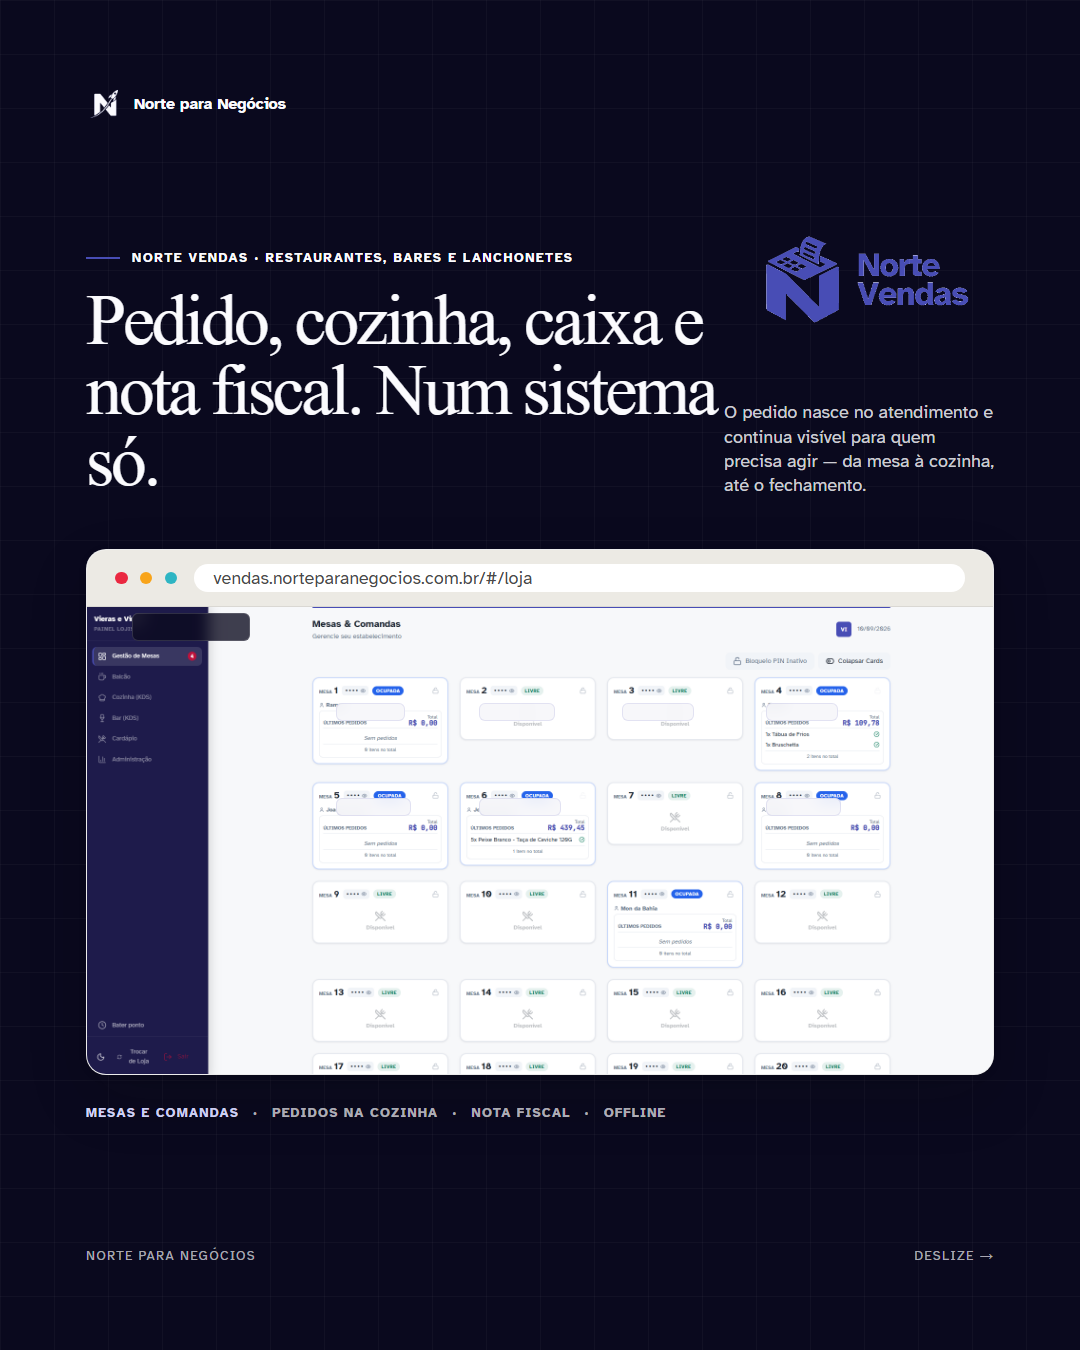
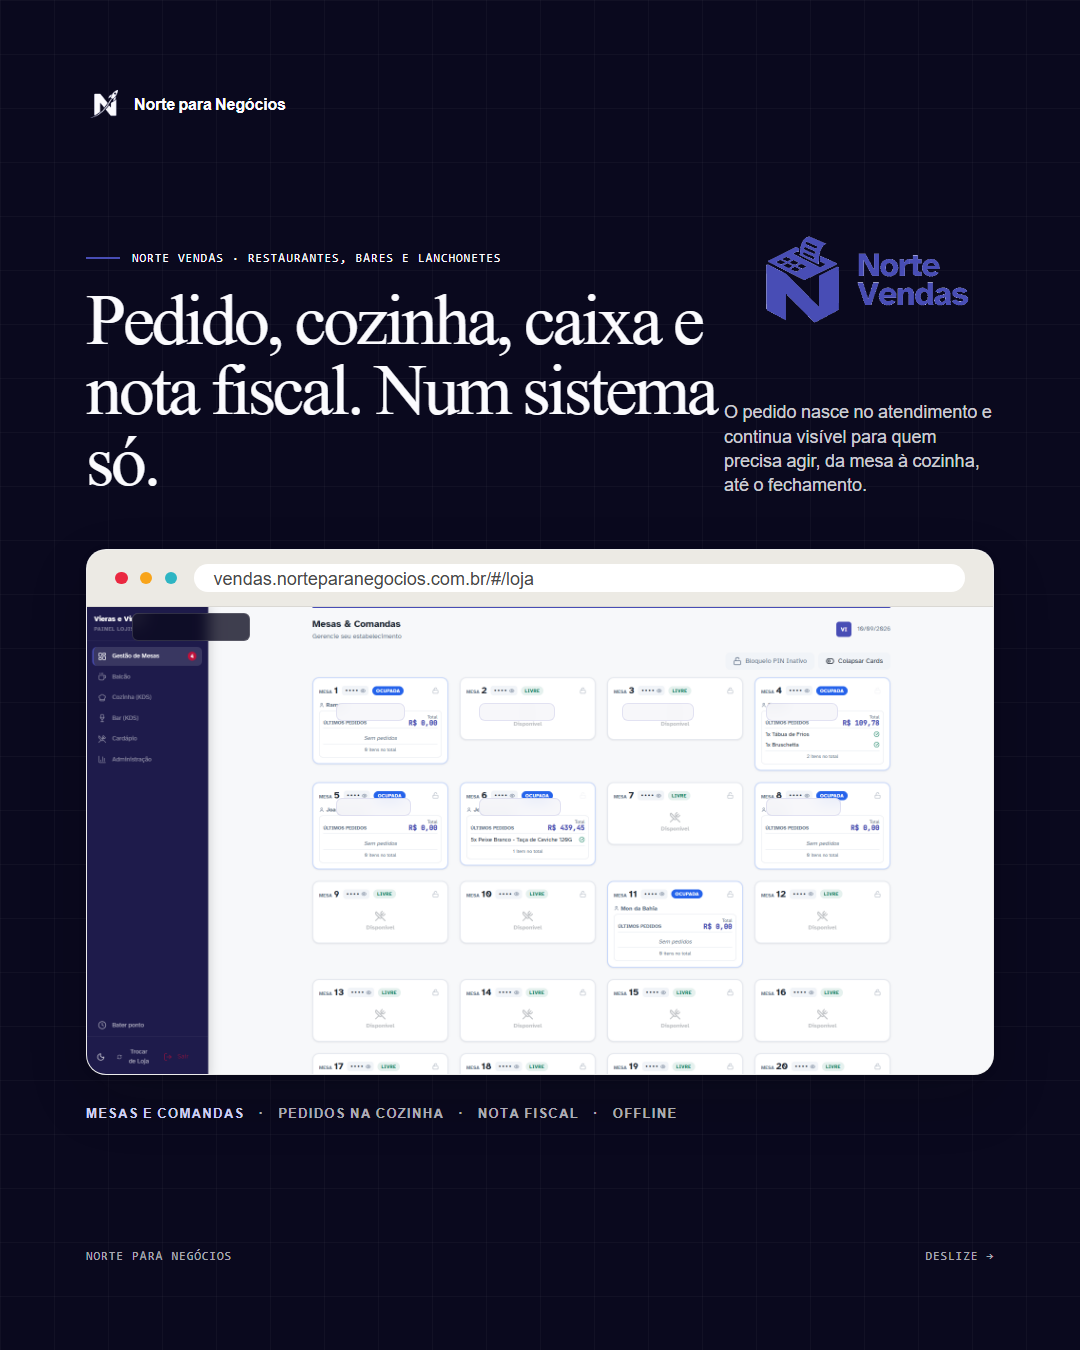
Alinha carrossel ao estilo do site Norte

diff --git a/src/lib/fonts.ts b/src/lib/fonts.ts
@@ -1,8 +1,8 @@
 import {continueRender, delayRender, staticFile} from 'remotion';
 
 /**
- * Par tipográfico definitivo da marca (design-dna.json, fechado 2026-09-05):
- * Source Serif 4 (headline/citação/overlay) + Atkinson Hyperlegible (corpo/dado/UI).
+ * Par tipográfico alinhado ao site oficial: Newsreader (headline/citação/overlay)
+ * + Geist Variable (corpo/dado/UI).
  * Fontes DEVEM estar embutidas no projeto (não CDN) — senão o render fica
  * não-determinístico (constraint documentada em constraints-plataforma.md).
  *
@@ -13,11 +13,11 @@ import {continueRender, delayRender, staticFile} from 'remotion';
 let sansLoaded = false;
 let serifLoaded = false;
 
-const SANS_FONT_FILES: Array<[number, 'normal' | 'italic', string]> = [
-  [400, 'normal', 'AtkinsonHyperlegible-400.woff2'],
-  [400, 'italic', 'AtkinsonHyperlegible-400-italic.woff2'],
-  [700, 'normal', 'AtkinsonHyperlegible-700.woff2'],
-  [700, 'italic', 'AtkinsonHyperlegible-700-italic.woff2'],
+type FontFile = [number | string, 'normal' | 'italic', string];
+
+const SANS_FONT_FILES: FontFile[] = [
+  [400, 'normal', 'GeistVariable-latin-ext.woff2'],
+  [700, 'normal', 'GeistVariable-latin-ext.woff2'],
 ];
 
 /**
@@ -40,10 +40,18 @@ const SERIF_FONT_FILES: Array<[number, 'normal' | 'italic', string]> = [
 //   [400, 'italic', 'Newsreader-400-italic.woff2'],
 // ];
 
-export const FONT_SANS = 'Atkinson Hyperlegible';
+const MONO_FONT_FILES: FontFile[] = [
+  [400, 'normal', 'GeistMonoVariable-latin-ext.woff2'],
+  [700, 'normal', 'GeistMonoVariable-latin-ext.woff2'],
+];
+
+const SANS_FAMILY = 'Geist Variable';
+const MONO_FAMILY = 'Geist Mono Variable';
+export const FONT_SANS = 'Geist Variable, Arial, sans-serif';
+export const FONT_MONO = 'Geist Mono Variable, Consolas, monospace';
 export const FONT_SERIF = 'Fraunces';
 
-function loadFamily(files: Array<[number, 'normal' | 'italic', string]>, family: string, label: string): void {
+function loadFamily(files: FontFile[], family: string, label: string): void {
   if (typeof document === 'undefined') return;
   const handle = delayRender(`Carregando fonte ${label}`);
 
@@ -68,7 +76,14 @@ function loadFamily(files: Array<[number, 'normal' | 'italic', string]>, family:
 export const ensureSansLoaded = (): void => {
   if (sansLoaded) return;
   sansLoaded = true;
-  loadFamily(SANS_FONT_FILES, FONT_SANS, 'Atkinson Hyperlegible');
+  loadFamily(SANS_FONT_FILES, SANS_FAMILY, 'Geist Variable');
+};
+
+let monoLoaded = false;
+export const ensureMonoLoaded = (): void => {
+  if (monoLoaded) return;
+  monoLoaded = true;
+  loadFamily(MONO_FONT_FILES, MONO_FAMILY, 'Geist Mono Variable');
 };
 
 export const ensureSerifLoaded = (): void => {
@@ -79,6 +94,7 @@ export const ensureSerifLoaded = (): void => {
 
 export const ensureFontsLoaded = (): void => {
   ensureSansLoaded();
+  ensureMonoLoaded();
   ensureSerifLoaded();
 };
 

diff --git a/src/templates/NorteNtbApresentacao.tsx b/src/templates/NorteNtbApresentacao.tsx
@@ -1,6 +1,6 @@
 import React from 'react';
 import {AbsoluteFill, Img, staticFile} from 'remotion';
-import {ensureSansLoaded, ensureNewsreaderLoaded, FONT_SANS, FONT_SERIF_ROTAS} from '../lib/fonts';
+import {ensureSansLoaded, ensureMonoLoaded, ensureNewsreaderLoaded, FONT_SANS, FONT_MONO, FONT_SERIF_ROTAS} from '../lib/fonts';
 import {GridTexture} from '../lib/GridTexture';
 import {BrowserFrame} from '../lib/DeviceFrame';
 import {productColors, neutral, brand} from '../lib/themes';
@@ -15,6 +15,7 @@ const WHITE = '#FBFBFE';
 
 function loadFonts(): void {
   ensureSansLoaded();
+  ensureMonoLoaded();
   ensureNewsreaderLoaded();
 }
 
@@ -33,14 +34,14 @@ const ProductLogo: React.FC<{kind: 'vendas' | 'estoque'; width?: number}> = ({ki
 );
 
 const Overline: React.FC<{children: React.ReactNode; color?: string; light?: boolean}> = ({children, color = brand.primary, light = false}) => (
-  <div style={{display: 'flex', alignItems: 'center', gap: 12, fontFamily: FONT_SANS, fontWeight: 700, fontSize: 13, letterSpacing: '0.12em', textTransform: 'uppercase', color: light ? WHITE : INK}}>
+  <div style={{display: 'flex', alignItems: 'center', gap: 12, fontFamily: FONT_MONO, fontWeight: 500, fontSize: 12, letterSpacing: '0.08em', textTransform: 'uppercase', color: light ? WHITE : INK}}>
     <span style={{display: 'block', width: 34, height: 2, background: color}} />
     {children}
   </div>
 );
 
 const FooterMark: React.FC<{light?: boolean}> = ({light = false}) => (
-  <div style={{display: 'flex', alignItems: 'center', justifyContent: 'space-between', fontFamily: FONT_SANS, fontSize: 13, letterSpacing: '0.10em', textTransform: 'uppercase', color: light ? `${WHITE}aa` : `${INK}88`}}>
+  <div style={{display: 'flex', alignItems: 'center', justifyContent: 'space-between', fontFamily: FONT_MONO, fontSize: 12, letterSpacing: '0.08em', textTransform: 'uppercase', color: light ? `${WHITE}aa` : `${INK}88`}}>
     <span>Norte para Negócios</span>
     <span>Deslize →</span>
   </div>
@@ -159,7 +160,7 @@ export const CarrosselVendas: React.FC = () => {
           </div>
           <div style={{display: 'flex', flexDirection: 'column', alignItems: 'flex-end', gap: 22, fontFamily: FONT_SANS, fontSize: 18, lineHeight: 1.35, maxWidth: 270, paddingBottom: 6, color: `${WHITE}d0`}}>
             <ProductLogo kind="vendas" width={244} />
-            <div>O pedido nasce no atendimento e continua visível para quem precisa agir — da mesa à cozinha, até o fechamento.</div>
+            <div>O pedido nasce no atendimento e continua visível para quem precisa agir, da mesa à cozinha, até o fechamento.</div>
           </div>
         </div>
         <div style={{marginTop: 46, display: 'flex', justifyContent: 'center', position: 'relative'}}>
